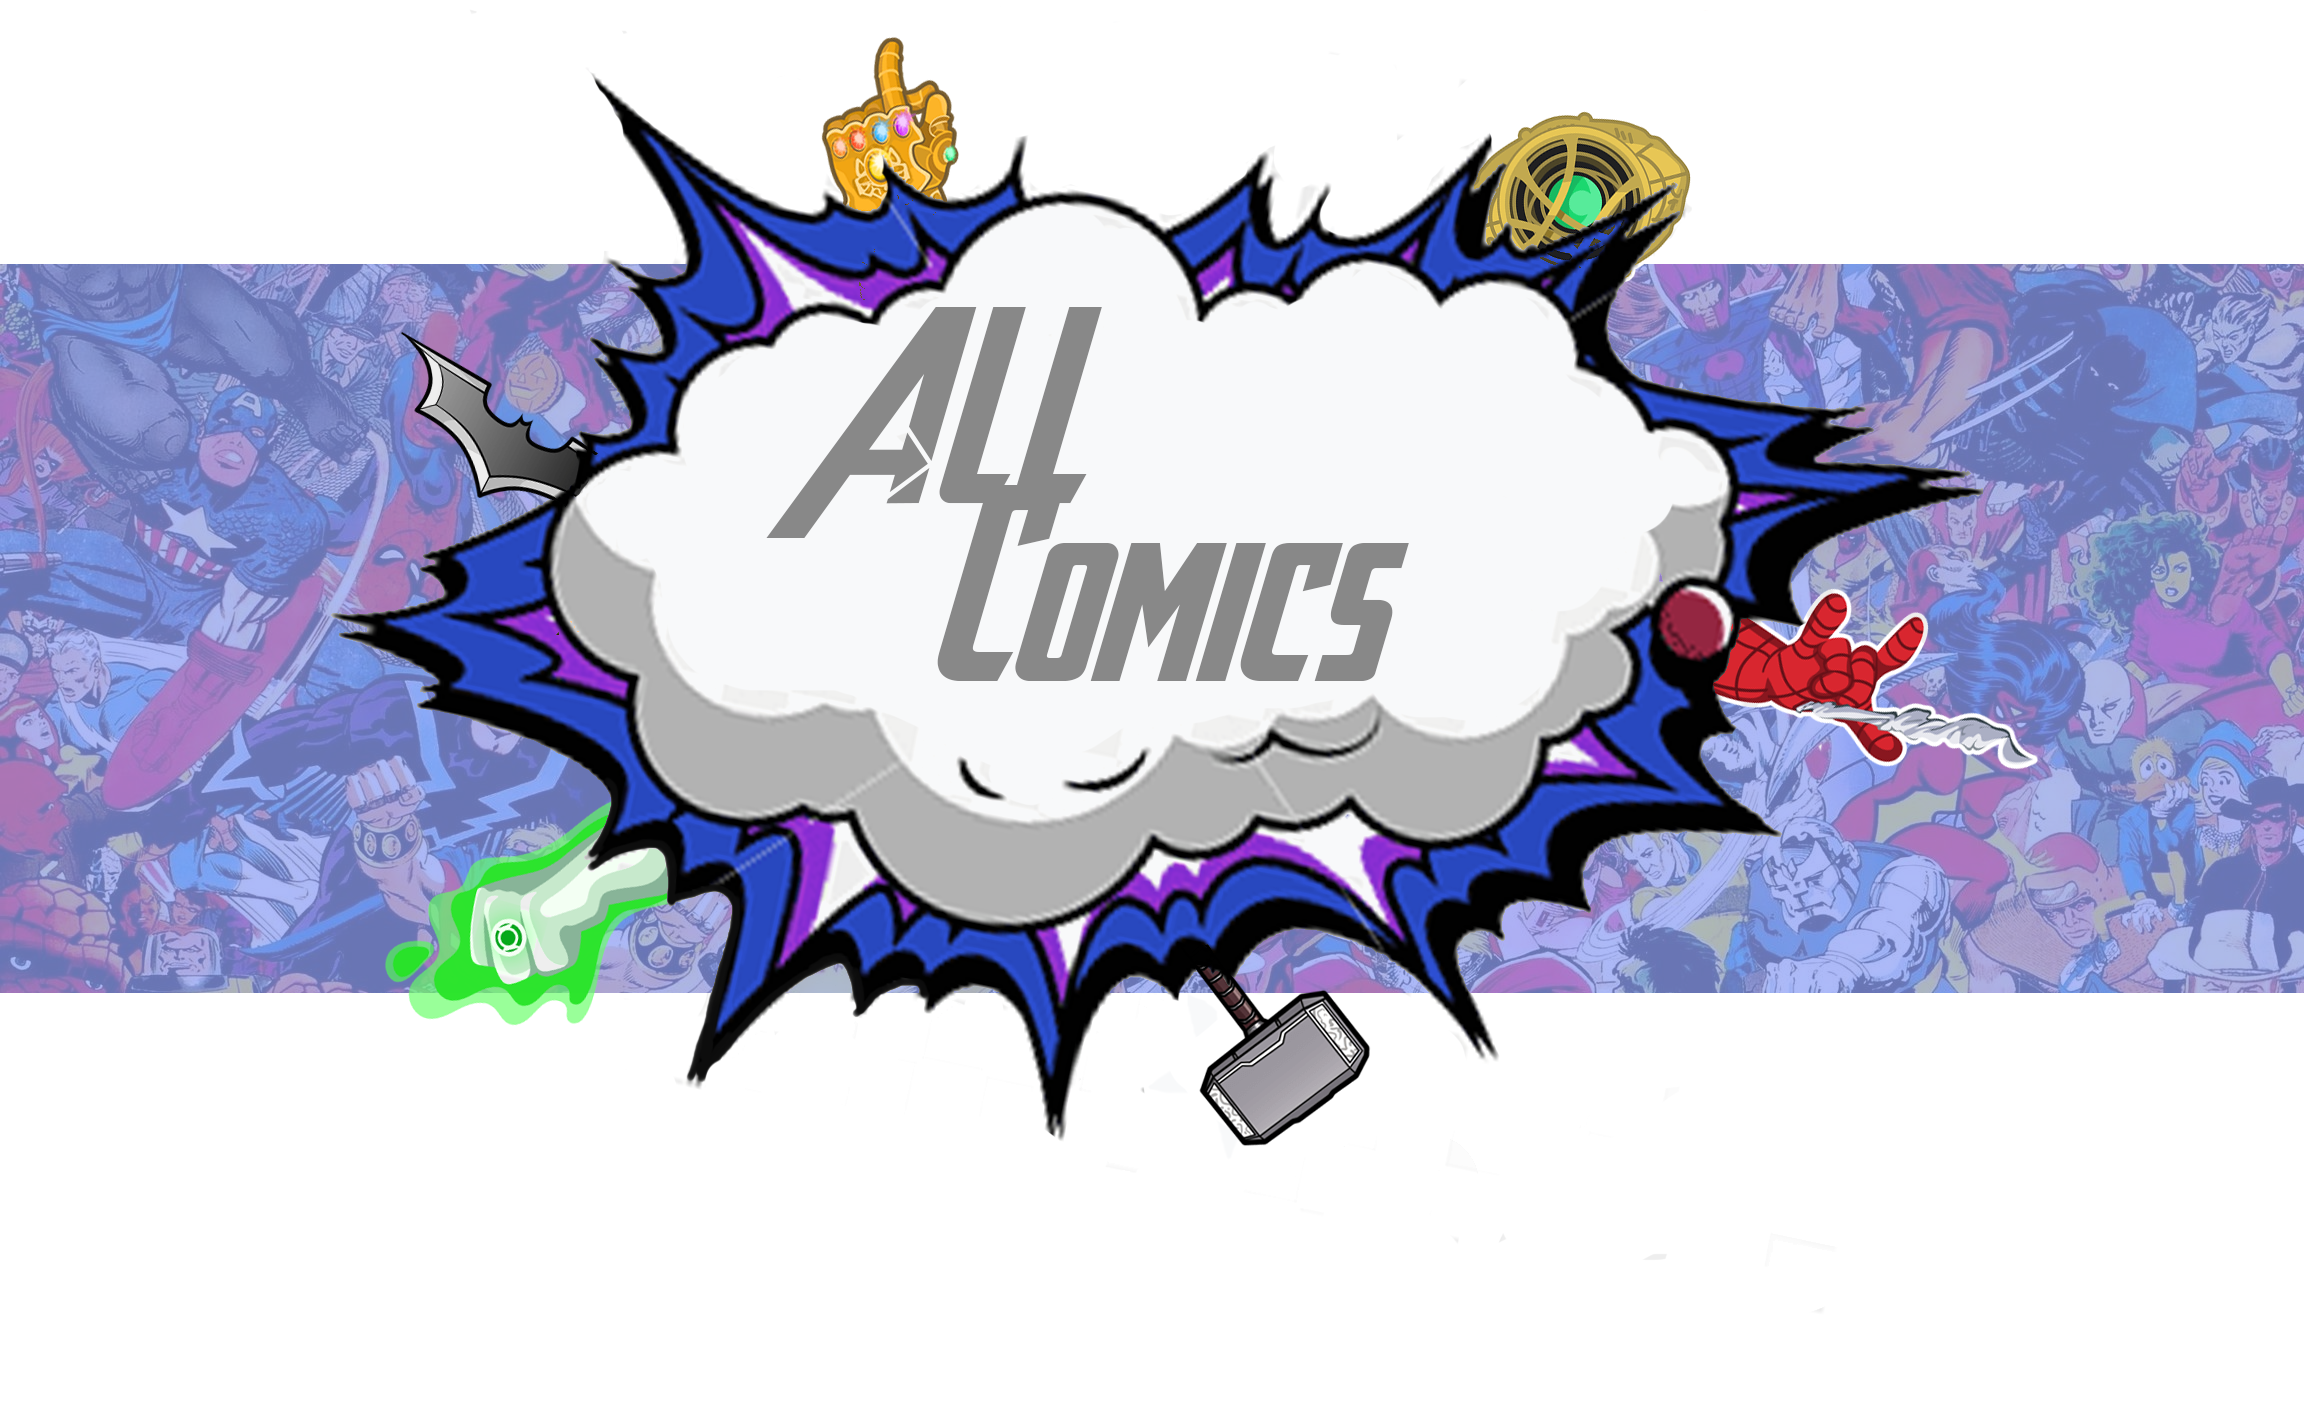
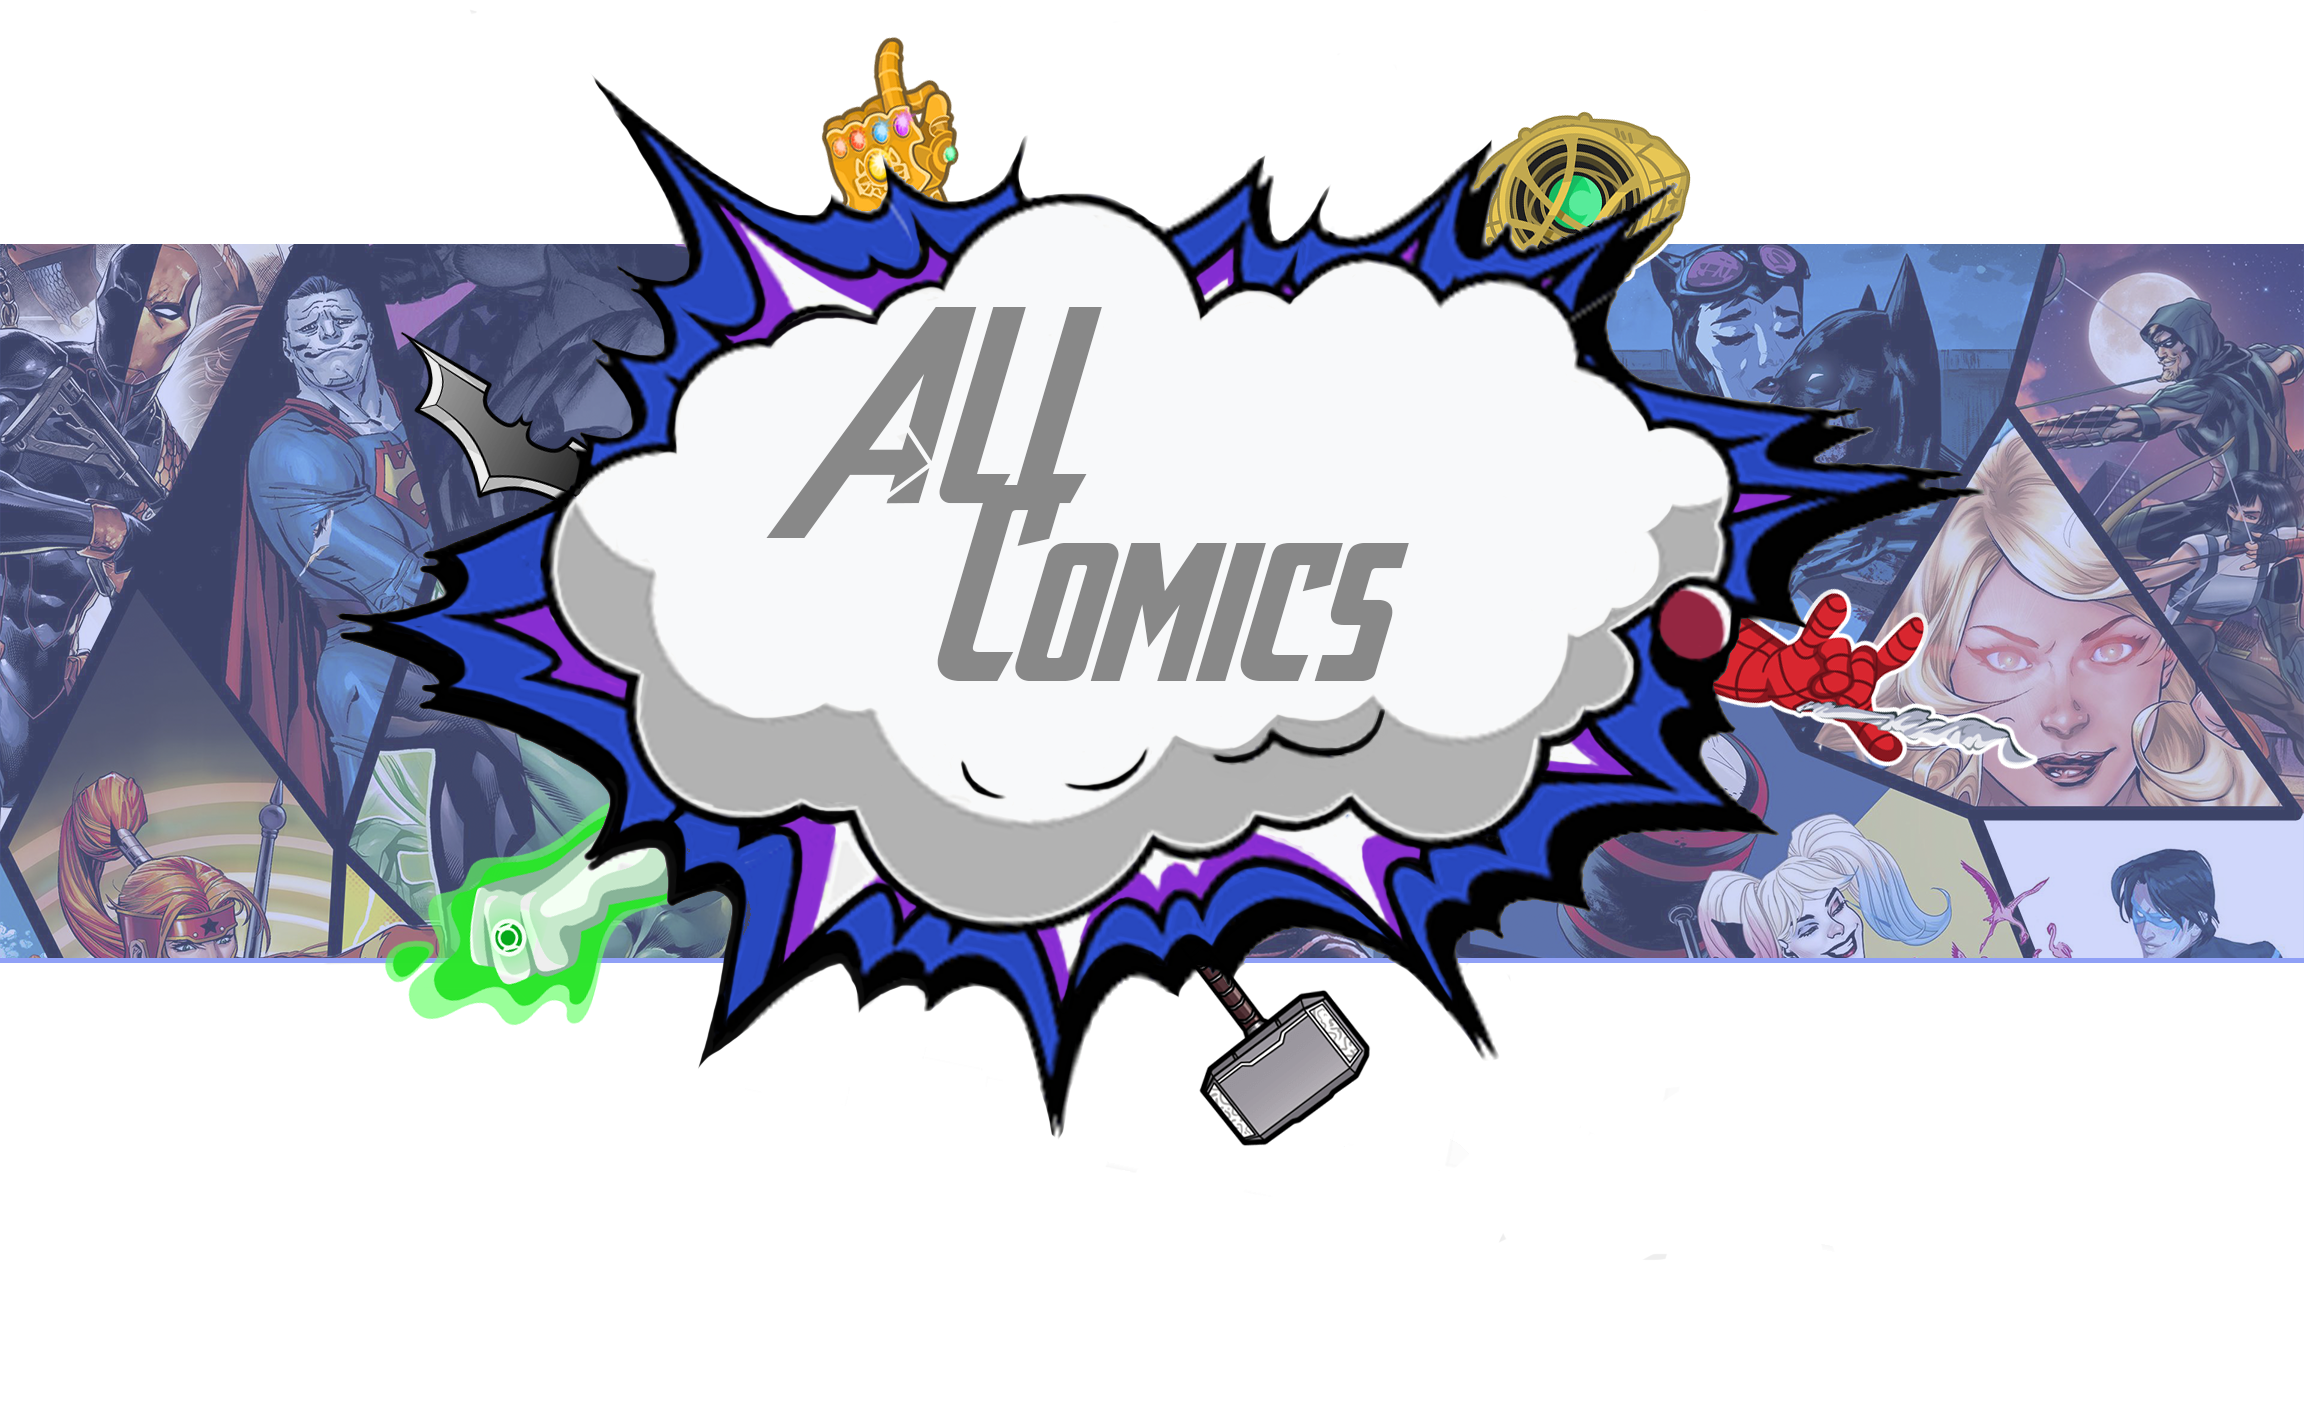
inicio completo

diff --git a/allcomics-front/src/Paginas/Home.jsx b/allcomics-front/src/Paginas/Home.jsx
@@ -1,11 +1,19 @@
 import CarroCompra from "./CarroCompra";
-import { Carousel } from "react-bootstrap";
+import { Carousel, Col, Row } from "react-bootstrap";
 import { Container, } from "react-bootstrap";
 import Carrusel_Layout1 from "../Assests/Carrusel_Layout1.png";
+import Layout1 from "../Assests/Layout1.png"
 
 function Home(props) {
   return (
     <Container>
+      <Row>
+                <Col>
+                <img
+            className="d-block w-100"
+            src={Layout1}/>
+                </Col>
+                <Col>
       <Carousel>
         <Carousel.Item>
           <img
@@ -14,13 +22,14 @@ function Home(props) {
             alt="Wellcome to ALLComics"
           />
           <Carousel.Caption>
-          <h3>Tienda de comics no autorizada</h3>
+        
+          <p>Tienda de comics no autorizada</p>
           </Carousel.Caption>
         </Carousel.Item>
         <Carousel.Item>
           <img
             className="d-block w-100"
-            src="holder.js/800x400?text=Second slide&bg=282c34"
+            src={Carrusel_Layout1}
             alt="Second slide"
           />
 
@@ -32,7 +41,7 @@ function Home(props) {
         <Carousel.Item>
           <img
             className="d-block w-100"
-            src="holder.js/800x400?text=Third slide&bg=20232a"
+            src={Carrusel_Layout1}
             alt="Third slide"
           />
 
@@ -42,6 +51,8 @@ function Home(props) {
           </Carousel.Caption>
         </Carousel.Item>
       </Carousel>
+      </Col>
+      </Row>
       <CarroCompra/>
     </Container>
   );
